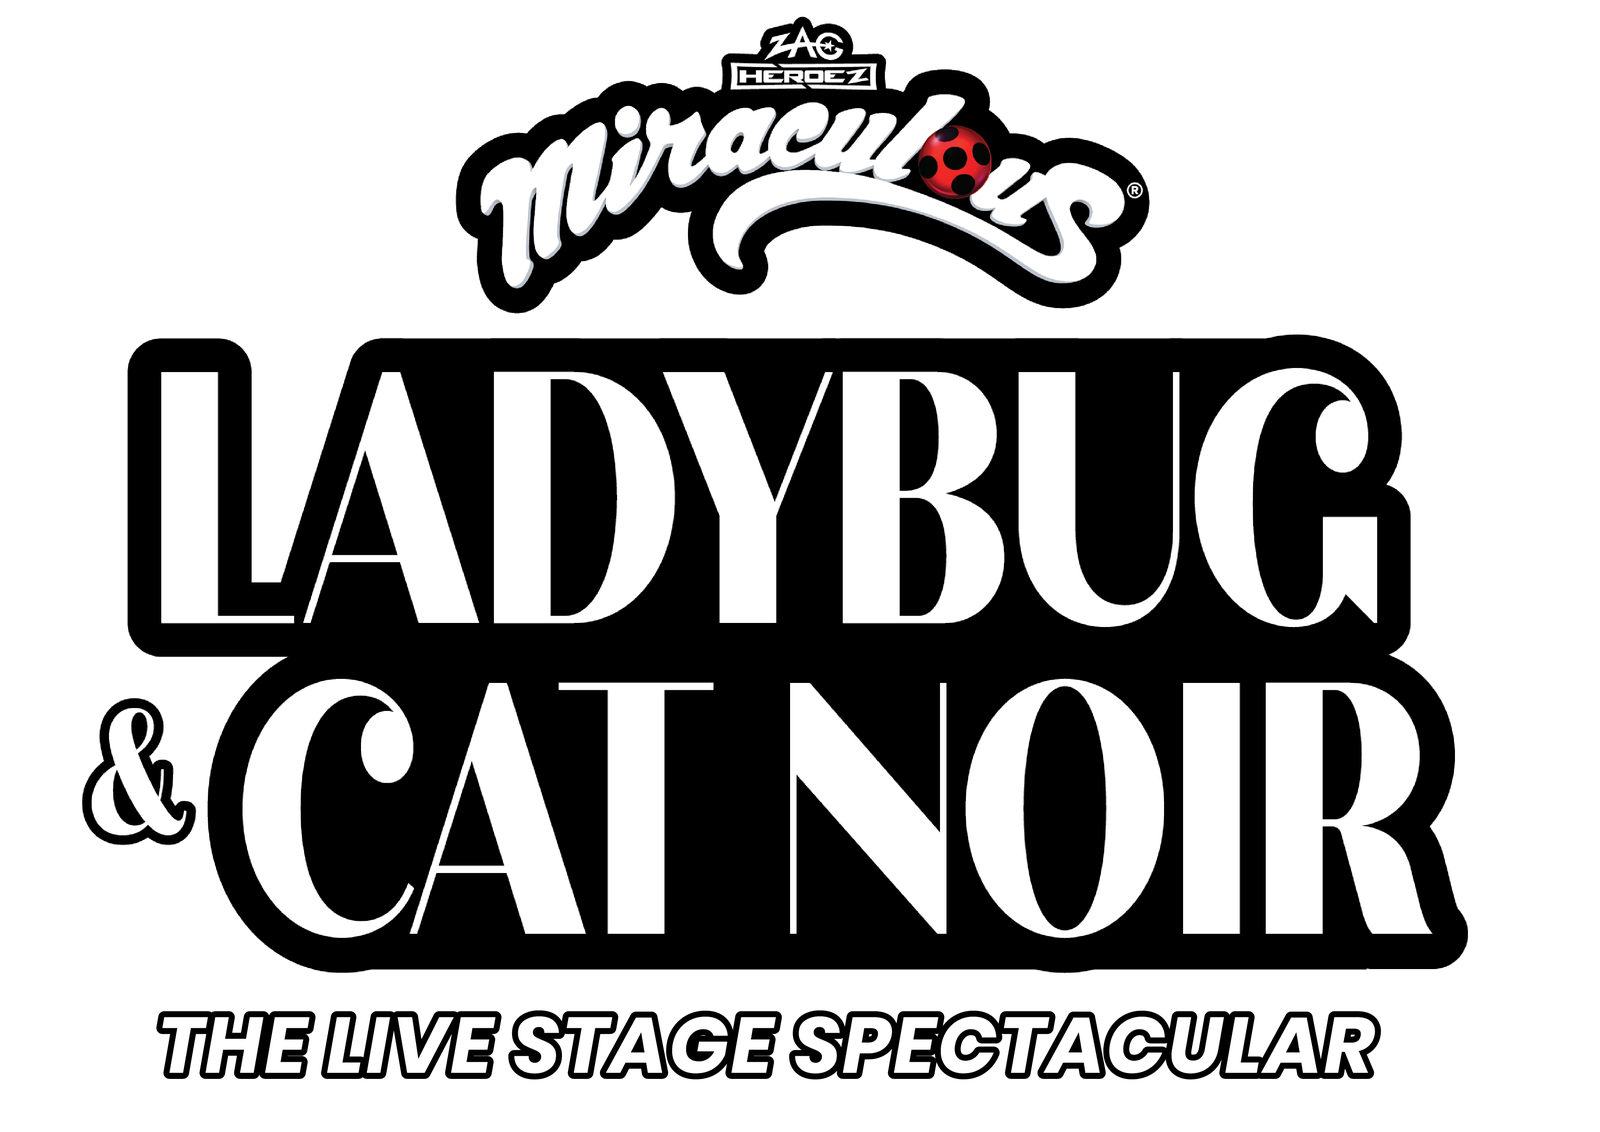
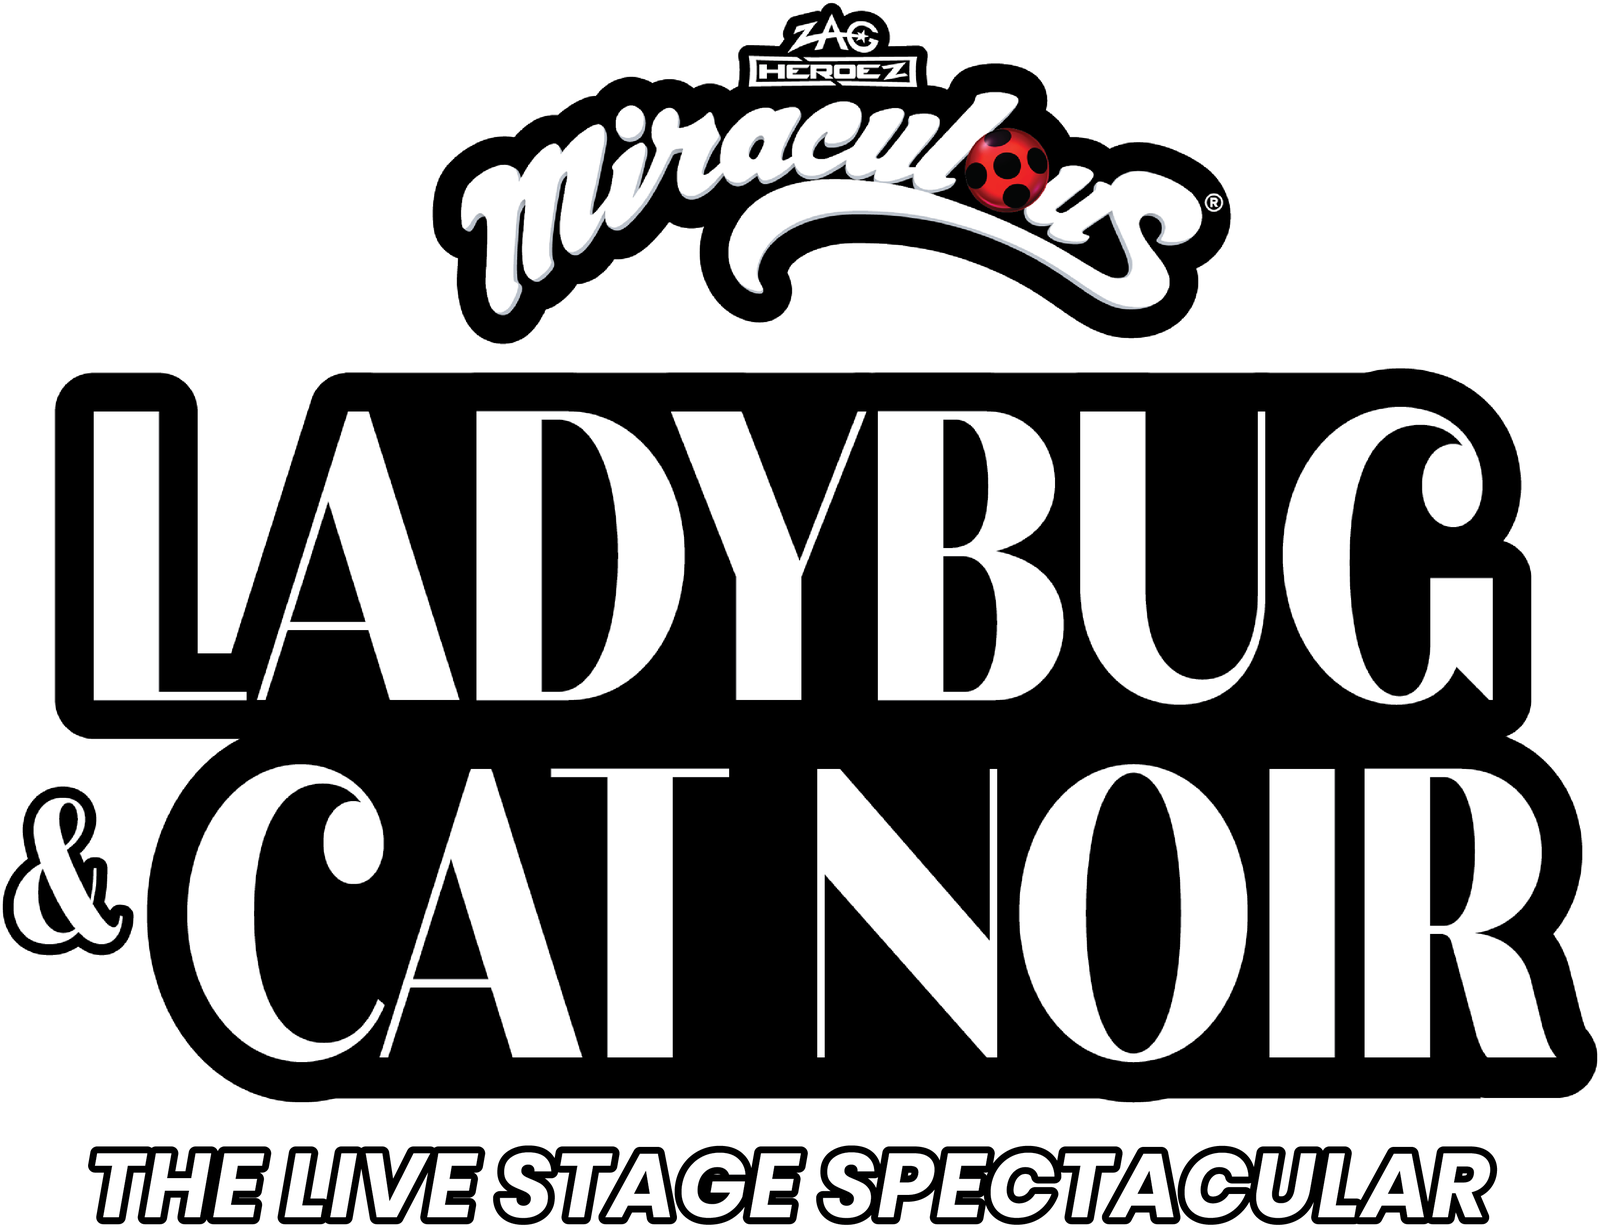
Hero: tight-crop poster assets (fixes mis-centering), smaller credit
The exported hero-*.webp files still had their original canvas padding
baked in — asymmetric on the key art especially (99px left vs 51px
right, 525px of empty space below the characters' feet) — which threw
off both centering and the title/art overlap math. Re-exported all
three cropped tight to content, recomputed the overlap margin against
the corrected ratios (-41%, was -34%). Credit image also shrunk per
Math (52% of poster width, was 74%).

Claude-Session: https://claude.ai/code/session_0143MxT7Kj4xTYkm9BbjyNyR

diff --git a/components/NewHomepage.vue b/components/NewHomepage.vue
@@ -362,12 +362,12 @@ function copyTune() {
   position: relative;
   width: 90%;
   height: auto;
-  margin-top: -34%;
+  margin-top: -41%;
   filter: drop-shadow(0 8px 22px rgba(0, 0, 0, 0.22));
 }
 .hero__credit-img {
   position: relative;
-  width: 74%;
+  width: 52%;
   height: auto;
   margin-top: 0.5rem;
 }
